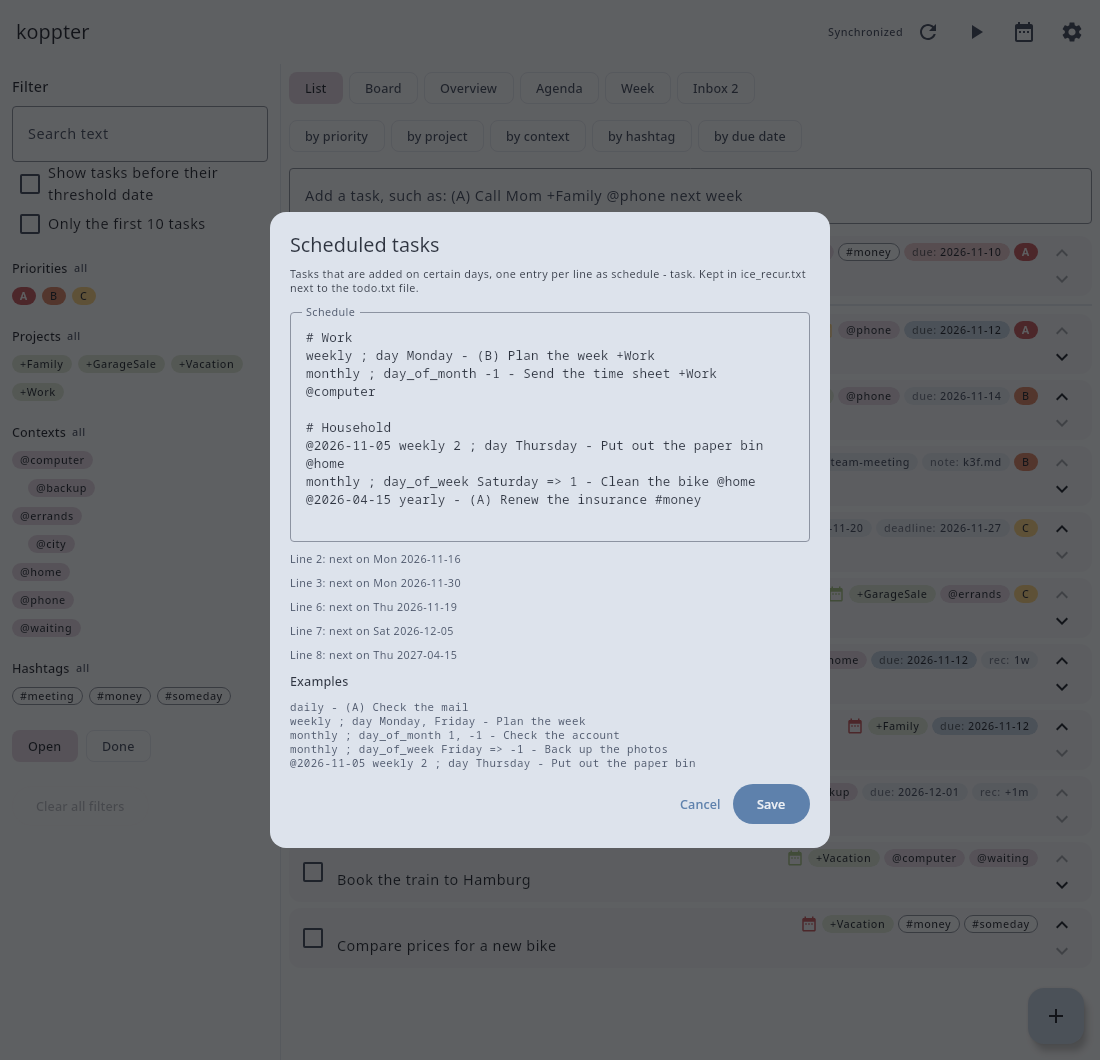
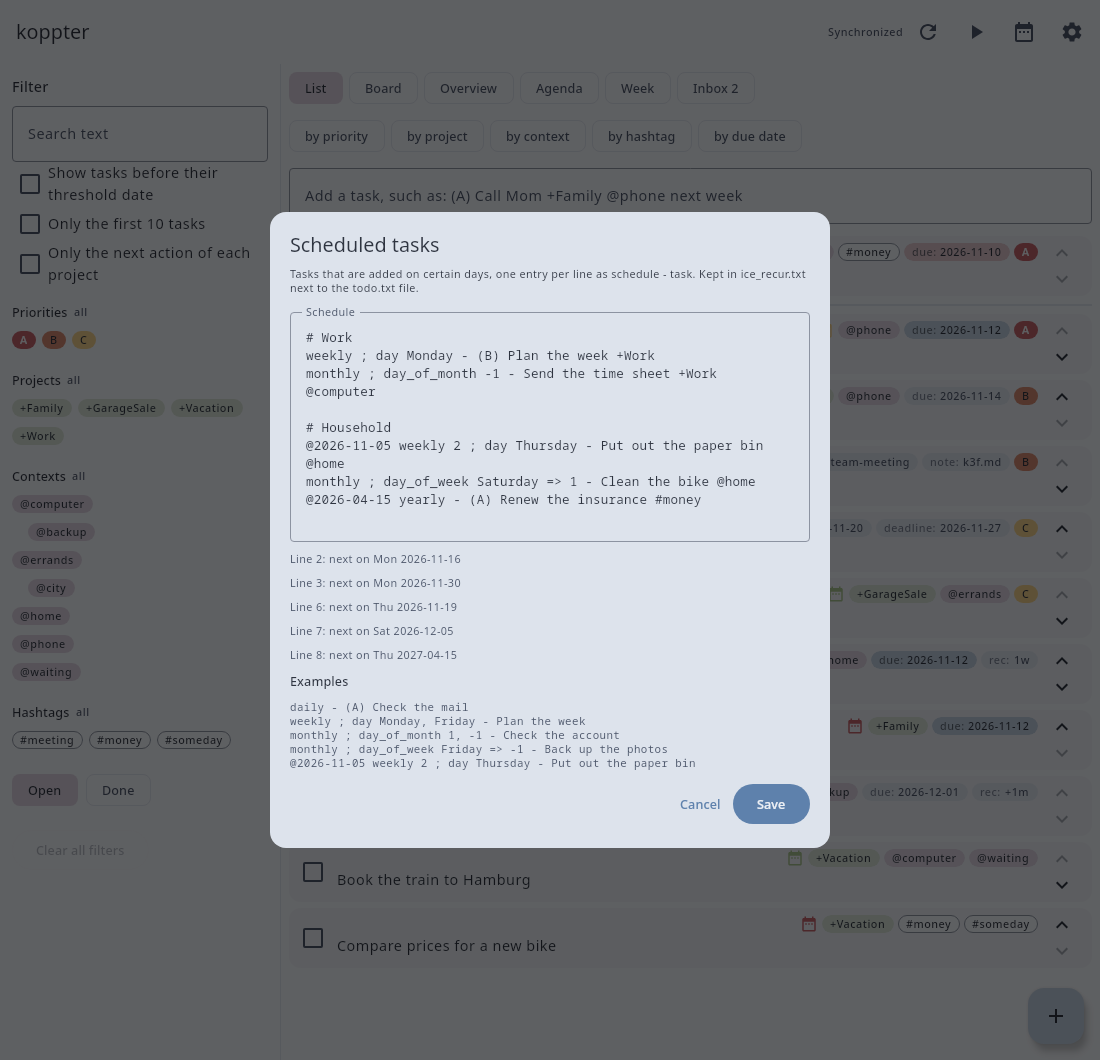
Show the next action of each project and the projects without one
An option of the filter panel cuts the list to the first task of each project that can be worked on.
The overview by project names the projects whose open tasks all wait or are for someday.

diff --git a/core/src/commonMain/kotlin/io/github/koppor/koppter/todotxt/Filter.kt b/core/src/commonMain/kotlin/io/github/koppor/koppter/todotxt/Filter.kt
@@ -67,3 +67,50 @@ fun listOrder(today: LocalDate): Comparator<Entry> =
         // [impl->dsn~due-time~1]
         .thenBy { it.task.by ?: (24 * 60) }
         .thenBy { it.index }
+
+/** The context of a task that waits for someone else. */
+const val WAITING_CONTEXT = "waiting"
+
+/** The hashtag of a task that is not decided yet. */
+const val SOMEDAY_HASHTAG = "someday"
+
+/**
+ * The open tasks that can be worked on now: those that neither wait for someone else (`@waiting`) nor are for someday (`#someday`),
+ * whose threshold date has come, and that do not wait for another open task (`id:` with a task of that `p:`).
+ */
+// [impl->dsn~next-actions~1]
+fun actionable(entries: List<Entry>, today: LocalDate): Set<Entry> {
+    val open = entries.filterNot { it.task.completed }
+    val parts = open.flatMap { entry -> entry.task.tags.filter { it.first == Task.PARENT }.map { it.second to entry } }.groupBy({ it.first }, { it.second })
+    return open.filter { entry ->
+        val task = entry.task
+        task.contexts.none { it.isWithin(WAITING_CONTEXT) } && SOMEDAY_HASHTAG !in task.hashtags &&
+            task.threshold.let { it == null || it <= today } &&
+            task.tags.none { (key, value) -> key == Task.ID && parts[value].orEmpty().any { it != entry } }
+    }.toSet()
+}
+
+/**
+ * The next actions among the listed tasks: those that can be worked on, and of each project the first one only.
+ * A task without project is no step towards a larger outcome and stays.
+ *
+ * @param listed the tasks to choose from, in the order of the list
+ * @param all the tasks of the file, which tell what a task waits for
+ */
+// [impl->dsn~next-actions~1]
+fun nextActions(listed: List<Entry>, all: List<Entry>, today: LocalDate): List<Entry> {
+    val actionable = actionable(all, today)
+    val seen = mutableSetOf<String>()
+    // Each project of the task is marked as seen, so no `any` on the projects, which would stop at the first new one.
+    return listed.filter { it in actionable && (it.task.projects.isEmpty() || it.task.projects.map(seen::add).contains(true)) }
+}
+
+/**
+ * The projects that are stuck: they have an open task whose threshold date has come, and none that can be worked on, in the projects below them neither.
+ */
+// [impl->dsn~next-actions~1]
+fun projectsWithoutNextAction(entries: List<Entry>, today: LocalDate): List<String> {
+    val moving = actionable(entries, today).flatMap { it.task.projects }
+    return entries.filter { !it.task.completed && it.task.threshold.let { day -> day == null || day <= today } }
+        .flatMap { it.task.projects }.distinct().filter { project -> moving.none { it.isWithin(project) } }.sortedWith(hierarchyOrder)
+}

diff --git a/core/src/commonMain/kotlin/io/github/koppor/koppter/todotxt/Urgency.kt b/core/src/commonMain/kotlin/io/github/koppor/koppter/todotxt/Urgency.kt
@@ -59,8 +59,9 @@ fun Task.urgency(today: LocalDate): Urgency? {
  * @param name `null` for the tasks that have none
  * @param title the name with its sign, as the tile shows it
  * @param entries the open tasks, the most urgent first and those without due date last
+ * @param stuck the projects of the tile that have no next action
  */
-data class OverviewState(val name: String?, val title: String, val entries: List<Entry>, val dueToday: Int, val overdue: Int) {
+data class OverviewState(val name: String?, val title: String, val entries: List<Entry>, val dueToday: Int, val overdue: Int, val stuck: List<String> = emptyList()) {
     val state: UrgencyState
         get() = when {
             overdue > 0 -> UrgencyState.OVERDUE
@@ -75,15 +76,19 @@ val OVERVIEW_KEYS = listOf(GroupKey.CONTEXT, GroupKey.PROJECT, GroupKey.HASHTAG)
 /**
  * The contexts, projects or hashtags that have open tasks, sorted by name; the tasks that have none last.
  * Contexts and projects are those of the outermost level, each with what lies below it.
+ *
+ * @param all the tasks of the file, which tell the projects without next action whatever the filter shows
  */
 // [impl->dsn~overview~1]
-fun overviewStates(entries: List<Entry>, today: LocalDate, key: GroupKey = GroupKey.CONTEXT): List<OverviewState> {
+fun overviewStates(entries: List<Entry>, today: LocalDate, key: GroupKey = GroupKey.CONTEXT, all: List<Entry> = entries): List<OverviewState> {
     val (sign, values) = when (key) {
         GroupKey.PROJECT -> "+" to Task::projects
         GroupKey.HASHTAG -> "#" to Task::hashtags
         else -> "@" to Task::contexts
     }
     val open = entries.filterNot { it.task.completed }
+    // [impl->dsn~next-actions~1]
+    val stuck = if (key == GroupKey.PROJECT) projectsWithoutNextAction(all, today) else emptyList()
     val names = open.flatMap { values(it.task) }.map { it.substringBefore(LEVEL_SEPARATOR) }.distinct().sorted()
     return (names + null).mapNotNull { name ->
         val own = open.filter { entry ->
@@ -92,6 +97,6 @@ fun overviewStates(entries: List<Entry>, today: LocalDate, key: GroupKey = Group
         if (own.isEmpty()) return@mapNotNull null
         val states = own.mapNotNull { it.task.urgency(today)?.state }
         val title = name?.let { sign + it } ?: "No ${key.label.lowercase()}"
-        OverviewState(name, title, own, states.count { it == UrgencyState.DUE }, states.count { it == UrgencyState.OVERDUE })
+        OverviewState(name, title, own, states.count { it == UrgencyState.DUE }, states.count { it == UrgencyState.OVERDUE }, stuck.filter { name != null && it.isWithin(name) })
     }
 }

diff --git a/core/src/commonTest/kotlin/io/github/koppor/koppter/todotxt/FilterTest.kt b/core/src/commonTest/kotlin/io/github/koppor/koppter/todotxt/FilterTest.kt
@@ -114,4 +114,40 @@ class FilterTest {
         assertEquals(listOf("Call Mom", "Pay bill"), matching(Filter(hashtags = setOf("family", "urgent"))))
         assertEquals(listOf("Call Mom", "Pay bill", "Post signs"), matching(Filter()))
     }
+
+    // [utest->dsn~next-actions~1]
+    @Test
+    fun theNextActionOfAProjectIsItsFirstTaskThatCanBeWorkedOn() {
+        val today = LocalDate(2026, 11, 12)
+        val entries = TodoFile.parse(
+            """
+            Ask the printer for an offer +Fair @waiting
+            Book the stand +Fair @phone
+            Print the flyers +Fair
+            The stand is ready +Fair id:fair
+            Build the stand +Fair p:fair t:2026-12-01
+            Outline the survey +papers>survey #someday
+            Collect the reviews +papers>draft @waiting>reviewers
+            Fix the bike
+            Learn to sail +Sailing t:2027-06-01
+            x Call the fair office +Fair
+            """.trimIndent(),
+        ).entries
+        fun texts(found: List<Entry>) = found.map { it.task.description }
+
+        assertEquals(listOf("Book the stand", "Print the flyers", "Fix the bike"), texts(actionable(entries, today).sortedBy { it.index }))
+        // One task per project, and each task without project.
+        assertEquals(listOf("Book the stand", "Fix the bike"), texts(nextActions(entries, entries, today)))
+        // Of the listed tasks: with the task at the phone filtered out, the next one of the project takes its place.
+        assertEquals(listOf("Print the flyers", "Fix the bike"), texts(nextActions(entries.filterNot { "phone" in it.task.contexts }, entries, today)))
+        // A task with two projects is the next action of both.
+        val two = TodoFile.parse("Order the cake +Party +Family\nSend the invitations +Party\nCall Mom +Family\n").entries
+        assertEquals(listOf("Order the cake"), texts(nextActions(two, two, today)))
+
+        // Stuck are the projects whose tasks all wait or are for someday; a project that only has tasks before their threshold date is not.
+        assertEquals(listOf("papers>draft", "papers>survey"), projectsWithoutNextAction(entries, today))
+        val moving = TodoFile.parse("Outline the survey +papers>survey #someday\nWrite the draft +papers>draft\nSubmit +papers @waiting\n").entries
+        // A project is not stuck while one below it moves.
+        assertEquals(listOf("papers>survey"), projectsWithoutNextAction(moving, today))
+    }
 }

diff --git a/app/src/commonMain/kotlin/io/github/koppor/koppter/ui/App.kt b/app/src/commonMain/kotlin/io/github/koppor/koppter/ui/App.kt
@@ -196,6 +196,7 @@ private fun MainScreen(
                 // Every task: also the completed ones and those before their threshold date, and not only the top ones.
                 controller.filter = Filter(completion = Completion.ALL, hideFuture = false)
                 controller.topOnly = false
+                controller.nextOnly = false
                 controller.view = View.LIST
             }
             // The agenda and the week show the plan, which the filter does not apply to.
@@ -248,6 +249,8 @@ private fun MainScreen(
             topCount = controller.settings.topCount,
             topOnly = controller.topOnly,
             onTopOnly = { controller.topOnly = it },
+            nextOnly = controller.nextOnly,
+            onNextOnly = { controller.nextOnly = it },
             modifier = modifier,
             textModifier = Modifier.focusRequester(filterFocus),
         )
@@ -303,7 +306,7 @@ private fun MainScreen(
                         if (controller.view == View.OVERVIEW) {
                             // An opened tile belongs to the attribute that was chosen: another one starts with the tiles.
                             androidx.compose.runtime.key(controller.overviewKey) {
-                                Overview(overviewStates(controller.visible, controller.today(), controller.overviewKey), controller.today(), open, emptyText)
+                                Overview(overviewStates(controller.visible, controller.today(), controller.overviewKey, controller.file.entries), controller.today(), open, emptyText)
                             }
                         } else if (controller.view == View.AGENDA) {
                             Agenda(controller.planBlocks, controller.dueUnplanned, controller::entryOf, controller.today(), controller::toggle, open)

diff --git a/app/src/desktopTest/kotlin/io/github/koppor/koppter/ui/AppTest.kt b/app/src/desktopTest/kotlin/io/github/koppor/koppter/ui/AppTest.kt
@@ -1379,6 +1379,28 @@ class AppTest {
         onAllNodesWithTag("task").assertCountEquals(1)
     }
 
+    // [utest->dsn~next-actions~1]
+    @Test
+    fun theListShowsTheNextActionOfEachProjectAndTheOverviewTheProjectsWithoutOne() = runComposeUiTest {
+        storage.text = "Book the stand +Fair @phone\nPrint the flyers +Fair\nAsk for an offer +Fair @waiting\nOutline the survey +papers>survey #someday\nFix the bike @home\n"
+        start()
+        onAllNodesWithTag("task").assertCountEquals(5)
+        onNodeWithTag("next-actions").assertTextEquals("Only the next action of each project").performClick()
+        onAllNodesWithTag("task").assertCountEquals(2)
+        onNodeWithText("Book the stand").assertExists()
+        onNodeWithText("Fix the bike").assertExists()
+        // It is a criterion of the filter panel and is cleared with the others.
+        onNodeWithTag("filter-clear").performClick()
+        onNodeWithTag("next-actions").assertIsOff()
+        onAllNodesWithTag("task").assertCountEquals(5)
+
+        onNodeWithTag("overview-switch").performClick()
+        onAllNodesWithTag("overview-stuck", useUnmergedTree = true).assertCountEquals(0)
+        onNodeWithTag("group-PROJECT").performClick()
+        onAllNodesWithTag("overview-stuck", useUnmergedTree = true).assertCountEquals(1)
+        onNodeWithText("No next action: survey", useUnmergedTree = true).assertExists()
+    }
+
     // [utest->dsn~top-tasks~1]
     @Test
     fun theTopViewShowsTheFirstTasksOnly() = runComposeUiTest {

diff --git a/app/src/commonMain/kotlin/io/github/koppor/koppter/ui/Overview.kt b/app/src/commonMain/kotlin/io/github/koppor/koppter/ui/Overview.kt
@@ -36,6 +36,7 @@ import androidx.compose.ui.platform.testTag
 import androidx.compose.ui.unit.dp
 import io.github.koppor.koppter.todotxt.OverviewState
 import io.github.koppor.koppter.todotxt.Entry
+import io.github.koppor.koppter.todotxt.LEVEL_SEPARATOR
 import io.github.koppor.koppter.todotxt.UrgencyState
 import io.github.koppor.koppter.todotxt.urgency
 import kotlinx.datetime.LocalDate
@@ -83,6 +84,16 @@ fun Overview(states: List<OverviewState>, today: LocalDate, onOpen: (Entry) -> U
                                 style = MaterialTheme.typography.labelMedium,
                                 color = MaterialTheme.colorScheme.onSurfaceVariant,
                             )
+                            // [impl->dsn~next-actions~1]
+                            if (state.stuck.isNotEmpty()) {
+                                Text(
+                                    // The project of the tile itself is stuck only if all below it are.
+                                    if (state.name in state.stuck) "No next action" else "No next action: " + state.stuck.joinToString { it.removePrefix("${state.name}$LEVEL_SEPARATOR") },
+                                    style = MaterialTheme.typography.labelMedium,
+                                    color = MaterialTheme.colorScheme.error,
+                                    modifier = Modifier.testTag("overview-stuck"),
+                                )
+                            }
                         }
                     }
                 }

diff --git a/app/src/commonMain/kotlin/io/github/koppor/koppter/ui/TodoController.kt b/app/src/commonMain/kotlin/io/github/koppor/koppter/ui/TodoController.kt
@@ -40,6 +40,7 @@ import io.github.koppor.koppter.todotxt.hierarchyOrder
 import io.github.koppor.koppter.todotxt.withAncestors
 import io.github.koppor.koppter.todotxt.TodoFile
 import io.github.koppor.koppter.todotxt.listOrder
+import io.github.koppor.koppter.todotxt.nextActions
 import io.github.koppor.koppter.todotxt.moveToGroup
 import kotlinx.datetime.DatePeriod
 import kotlinx.datetime.LocalDate
@@ -81,6 +82,10 @@ class TodoController(
      */
     // [impl->dsn~most-important-tasks~1]
     var topOnly by mutableStateOf(false)
+
+    /** Restricts the list to the next actions: of each project, the first task that can be worked on. */
+    // [impl->dsn~next-actions~1]
+    var nextOnly by mutableStateOf(false)
 
     /** Shows the tasks as a board instead of as a list. */
     var view by mutableStateOf(View.LIST)
@@ -183,6 +188,8 @@ class TodoController(
     // [impl->dsn~visible-tasks~1]
     val visible: List<Entry>
         get() = file.entries.filter { filter.matches(it.task, today()) }.sortedWith(listOrder(today()))
+            // [impl->dsn~next-actions~1]
+            .let { if (nextOnly) nextActions(it, file.entries, today()) else it }
             // [impl->dsn~top-tasks~1]
             .let { if (topOnly) it.take(settings.topCount) else it }
 

diff --git a/app/src/commonMain/kotlin/io/github/koppor/koppter/ui/FilterPanel.kt b/app/src/commonMain/kotlin/io/github/koppor/koppter/ui/FilterPanel.kt
@@ -48,6 +48,8 @@ fun FilterPanel(
     topCount: Int,
     topOnly: Boolean,
     onTopOnly: (Boolean) -> Unit,
+    nextOnly: Boolean,
+    onNextOnly: (Boolean) -> Unit,
     modifier: Modifier = Modifier,
     /** For the field of the text, so that a shortcut can give it the focus. */
     textModifier: Modifier = Modifier,
@@ -67,6 +69,8 @@ fun FilterPanel(
         }
         // [impl->dsn~top-tasks~1]
         Option("Only the first $topCount tasks", topOnly, "top", onTopOnly)
+        // [impl->dsn~next-actions~1]
+        Option("Only the next action of each project", nextOnly, "next-actions", onNextOnly)
 
         LabelFilter("Priorities", priorities, filter.priorities, { "filter-priority-$it" }, { onChange(filter.copy(priorities = it)) }) { value, suffix, modifier ->
             PriorityLabel(value, modifier, suffix)
@@ -115,8 +119,9 @@ fun FilterPanel(
             onClick = {
                 onChange(Filter())
                 onTopOnly(false)
+                onNextOnly(false)
             },
-            enabled = !filter.isDefault || topOnly,
+            enabled = !filter.isDefault || topOnly || nextOnly,
             modifier = Modifier.padding(top = 12.dp).testTag("filter-clear"),
         ) {
             Text("Clear all filters")

diff --git a/core/src/commonTest/kotlin/io/github/koppor/koppter/todotxt/UrgencyTest.kt b/core/src/commonTest/kotlin/io/github/koppor/koppter/todotxt/UrgencyTest.kt
@@ -90,4 +90,19 @@ class UrgencyTest {
         assertEquals("Due in 8 days", official.text)
         assertEquals(UrgencyState.OVERDUE, Task.parse("File the tax return deadline:2026-11-11").urgency(today)!!.state)
     }
+
+    // [utest->dsn~next-actions~1]
+    @Test
+    fun theOverviewByProjectNamesTheProjectsWithoutNextAction() {
+        val today = LocalDate(2026, 11, 12)
+        val entries = TodoFile.parse(
+            "Outline the survey +papers>survey #someday\nWrite the draft +papers>draft\nAsk for an offer +Fair @waiting\nFix the bike @home\n",
+        ).entries
+        val states = overviewStates(entries, today, GroupKey.PROJECT)
+        assertEquals(listOf("Fair" to listOf("Fair"), "papers" to listOf("papers>survey"), null to emptyList()), states.map { it.name to it.stuck })
+        // The tiles by context do not tell it.
+        assertEquals(emptyList(), overviewStates(entries, today).flatMap { it.stuck })
+        // The filter does not hide what a project has: with the draft filtered out, the project of the papers is not stuck.
+        assertEquals(listOf("papers>survey"), overviewStates(entries.filter { "someday" in it.task.hashtags }, today, GroupKey.PROJECT, entries).single().stuck)
+    }
 }

diff --git a/README.md b/README.md
@@ -111,14 +111,14 @@ The application covers the lists and steps of Getting Things Done (GTD), the met
 | --- | --- |
 | Capture | The line that adds a task, and [sharing](#sharing-to-koppter-on-android) on Android: a task needs nothing but its text |
 | Clarify the inbox | The [inbox](#inbox) lists the open tasks without context; a few keys give each its context |
-| Next actions by context | Contexts as `@phone`; the list in [groups](#groups-in-the-list) by context, the [overview](#overview-of-the-contexts) and the board column *Next* |
+| Next actions by context | Contexts as `@phone`, and the option *Only the next action of each project* of the filter panel; the list in [groups](#groups-in-the-list) by context, the [overview](#overview-of-the-contexts) and the board column *Next* |
 | Projects | Projects as `+Thesis`, with levels as `+papers>survey`; the list in groups by project |
 | Waiting for | The context `@waiting` and the board column *Waiting* |
 | Someday/maybe | The hashtag `#someday` and the board column *Someday* |
 | Calendar | The dates `due:` and `deadline:` and the time `at:`; the [agenda and the week](#agenda-and-week) |
 | Tickler file | The threshold date `t:`, which hides a task until its day, and [recurring tasks](#recurring-tasks) |
 | Reference material | The note of a task, a Markdown file next to the `todo.txt` file |
-| Weekly review | A task by the calendar, such as `weekly ; day Friday - Weekly review @review` in `ice_recur.txt`; the overview and the [plan](#planning) tell what needs a decision |
+| Weekly review | A task by the calendar, such as `weekly ; day Friday - Weekly review @review` in `ice_recur.txt`; the overview by project names the projects without next action, and the [plan](#planning) lists what does not fit |
 
 The [board](#board) by filter starts with the lists of the method, until other columns are entered in the settings:
 
@@ -130,6 +130,15 @@ Someday = #someday
 ```
 
 Dragging a task to *Someday* adds `#someday`, and dragging it to *Next* removes `#someday` and `@waiting`.
+
+The next action of a project is its first task in the [order of the list](#order-of-the-list) that can be worked on ([decision 0032](docs/decisions/0032-next-actions-derived-from-the-tasks.md)).
+A task cannot be worked on if it has the context `@waiting`, the hashtag `#someday` or a threshold date in the future, or if it waits for another open task through `id:` and `p:`.
+
+* *Only the next action of each project* in the filter panel shows one task per project, and each task without project.
+  Together with a context in the filter, it shows what is next at the phone or at home.
+* The overview by project marks a tile with *No next action* if the open tasks of the project all wait or are for someday.
+  For a project below the one of the tile, it names the project: *No next action: survey*.
+* A project whose tasks are all completed is no longer in the file as a project and is not marked.
 
 ## Files
 
@@ -424,6 +433,7 @@ The switch *Overview* above the tasks shows one tile per context of the outermos
 A tile counts the open tasks of the context and of the contexts below it, and its dot tells the state of the most urgent one: overdue, due today, or neither.
 The tasks without context have a tile of their own.
 The switches below the views show the tiles *by project* or *by hashtag* instead: one tile per project of the outermost level with the projects below it, or one per hashtag.
+A tile of a project tells if the project, or one below it, has [no next action](#getting-things-done).
 The filter panel applies to the overview as it does to the list.
 
 A click on a tile lists the tasks of the context, the most urgent first and those without due date last.

diff --git a/skills/koppter-tasks/SKILL.md b/skills/koppter-tasks/SKILL.md
@@ -51,7 +51,7 @@ koppter writes tasks in that order, so a line written the same way does not chan
 | --- | --- | --- |
 | Description | What is to be done, starting with a verb | Keep URLs as they are. |
 | `+Project` | What the task belongs to: the area, and below it the outcome that ends | Levels with `>`: `+research>FirstPaper`. Reuse the path that the file has for the project; a new outcome goes below the existing project of its area. Leave it out if the task belongs to nothing larger. |
-| `@context` | The kind of work or the place: `@reading`, `@phone`, `@errands` | It decides when the task is planned. Usually one; a second one if the task can be done in either way. `@waiting` in addition marks a task that waits for someone. A context may have levels as well (`@errands>city`): reuse them where the file has them, and do not introduce them. |
+| `@context` | The kind of work or the place: `@reading`, `@phone`, `@errands` | It decides when the task is planned. Usually one; a second one if the task can be done in either way. `@waiting` in addition marks a task that waits for someone: it is not a next action of its project. A context may have levels as well (`@errands>city`): reuse them where the file has them, and do not introduce them. |
 | `(A)` | What has to happen this week | `(B)` for what should. Most tasks have none; ask rather than guess. The file holds the letter also when the user names priorities otherwise: the key `priorities` of `koppter.yml` next to the file maps letters to their names, such as `"D": "5"`. |
 | `due:2026-12-01` | A deadline that someone else set | Not the day the user would like to do it: the plan finds that day. |
 | `deadline:2026-12-10` | The deadline that someone else set, for a task that the user wants to have done earlier | Only when the user names both days: "the report has to be in on the 10th, I want it done by the 1st" is `due:2026-12-01 deadline:2026-12-10`. A deadline at a time of the day is written `deadline:2026-12-10T12:00`, and one that is announced for another place with its offset from UTC, `deadline:2026-12-10T23:59-12:00` for "anywhere on Earth"; the time of a due date stays in `dueby:`. |
@@ -60,7 +60,7 @@ koppter writes tasks in that order, so a line written the same way does not chan
 | `dur:1h30m` | The time the task takes | Without it, the plan assumes half an hour. Give it when the user states it or the task clearly takes longer. |
 | `tt:30m` | The time that the way to the task takes; the way back counts the same | Only when the user states it for a task that takes place somewhere else. The plan keeps it free before and after the task. |
 | `at:14:00` | The time of the day at which the task takes place | Only for what has its time: an appointment, lunch, a training. The plan does not move the task. The day is `due:`, else `t:`, else today. |
-| `#hashtag` | A property shared across projects | `#money`, `#quick`. Starts with a letter. |
+| `#hashtag` | A property shared across projects | `#money`, `#quick`. Starts with a letter. `#someday` marks a task that is not decided yet: it is not a next action of its project either. |
 | `id:1`, `p:1` | Order between tasks | The task with `id:1` waits for the tasks with `p:1`. Pick a value that the file does not use yet: `grep -o ' id:[^ ]*' todo.txt`. |
 | `note:k3f.md` | Details of several lines | Write them to `notes/k3f.md` (three characters, a name not in use) and name the file in the tag. |
 

diff --git a/docs/decisions/0032-next-actions-derived-from-the-tasks.md b/docs/decisions/0032-next-actions-derived-from-the-tasks.md
@@ -1,0 +1,51 @@
+---
+status: accepted
+date: 2026-11-15
+decision-makers: Oliver Kopp
+---
+
+# Next Actions Are Derived From the Tasks
+
+`adr~next-actions-derived~1`
+
+Needs: dsn
+
+## Context and Problem Statement
+
+Getting Things Done works from the next action of each project, and a project without one is stuck.
+The todo.txt format has no notation for a next action.
+How does the application know the next action of a project?
+
+## Considered Options
+
+* Derived: the first task of the project that can be worked on
+* A mark on the task, such as the hashtag `#next` or the context `@next`
+* The priority `A`
+
+## Decision Outcome
+
+Chosen option: "Derived: the first task of the project that can be worked on", because the file already tells what cannot be worked on, and a mark would have to be moved by hand after each completed task.
+
+A task cannot be worked on if it has the context `@waiting`, the hashtag `#someday`, a threshold date in the future, or waits for another open task through `id:` and `p:`.
+The first of the remaining tasks is the first in the order of the list, so priority and due date decide.
+
+### Consequences
+
+* Good, because completing a task makes the next one of its project the next action without an edit.
+* Good, because the file stays as other programs read it: nothing is written for it.
+* Bad, because `@waiting` and `#someday` now have a meaning in the application, which a file that uses the names otherwise does not intend.
+* Bad, because the order of the steps of a project is known only as far as priorities, due dates and dependencies tell it.
+* Bad, because a project whose tasks are all completed is not known as a project anymore and is not reported as stuck.
+
+## Pros and Cons of the Options
+
+### A mark on the task, such as the hashtag `#next` or the context `@next`
+
+* Good, because the user states the next action, whatever the order of the list is.
+* Bad, because each completed next action needs a second edit that marks its successor, which is forgotten.
+* Bad, because a project without the mark is stuck by omission, not by the state of its tasks.
+
+### The priority `A`
+
+* Good, because every program for the format shows it.
+* Bad, because the priority then no longer tells the importance, and the list order is led by the next actions of all projects.
